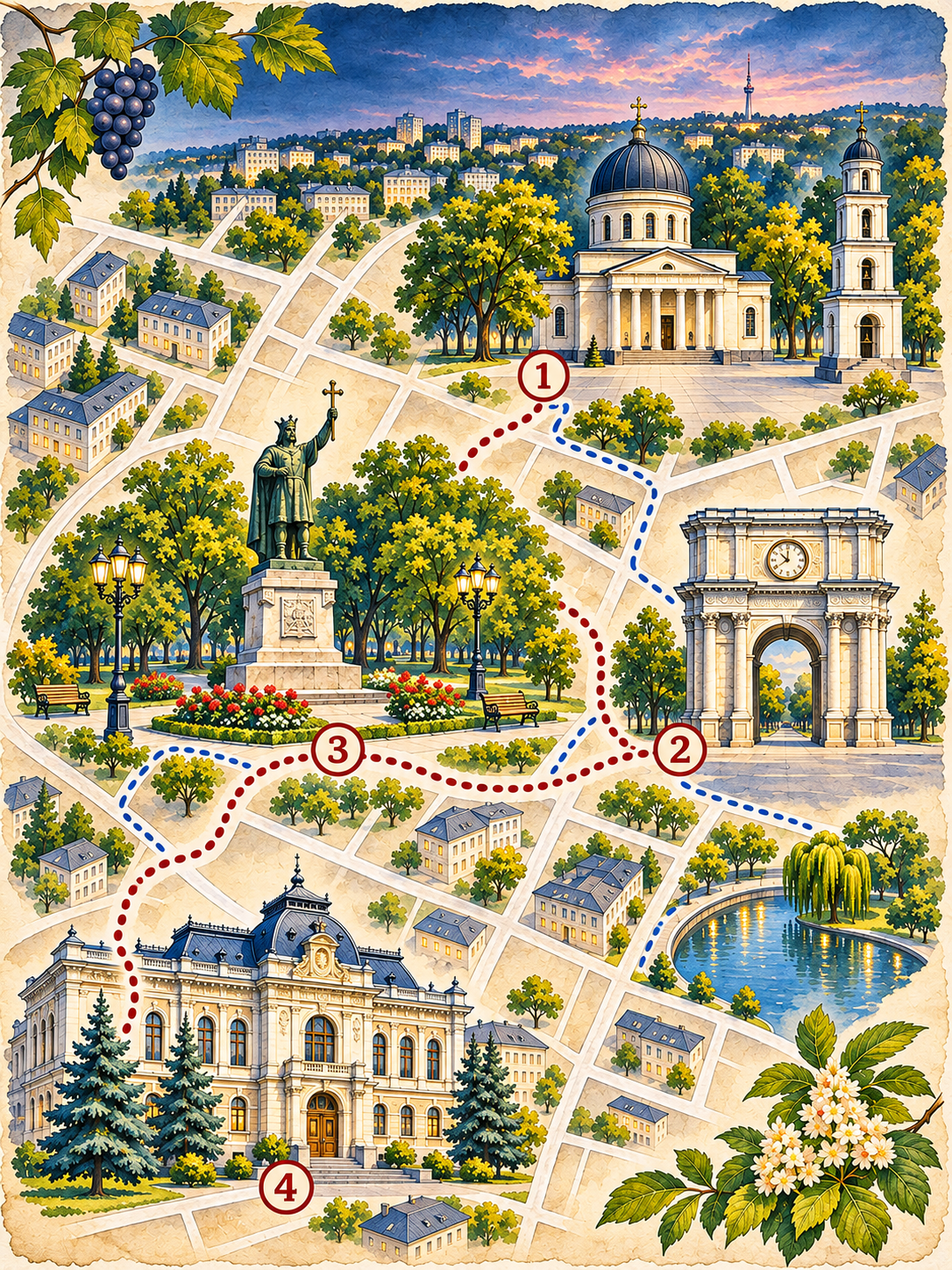
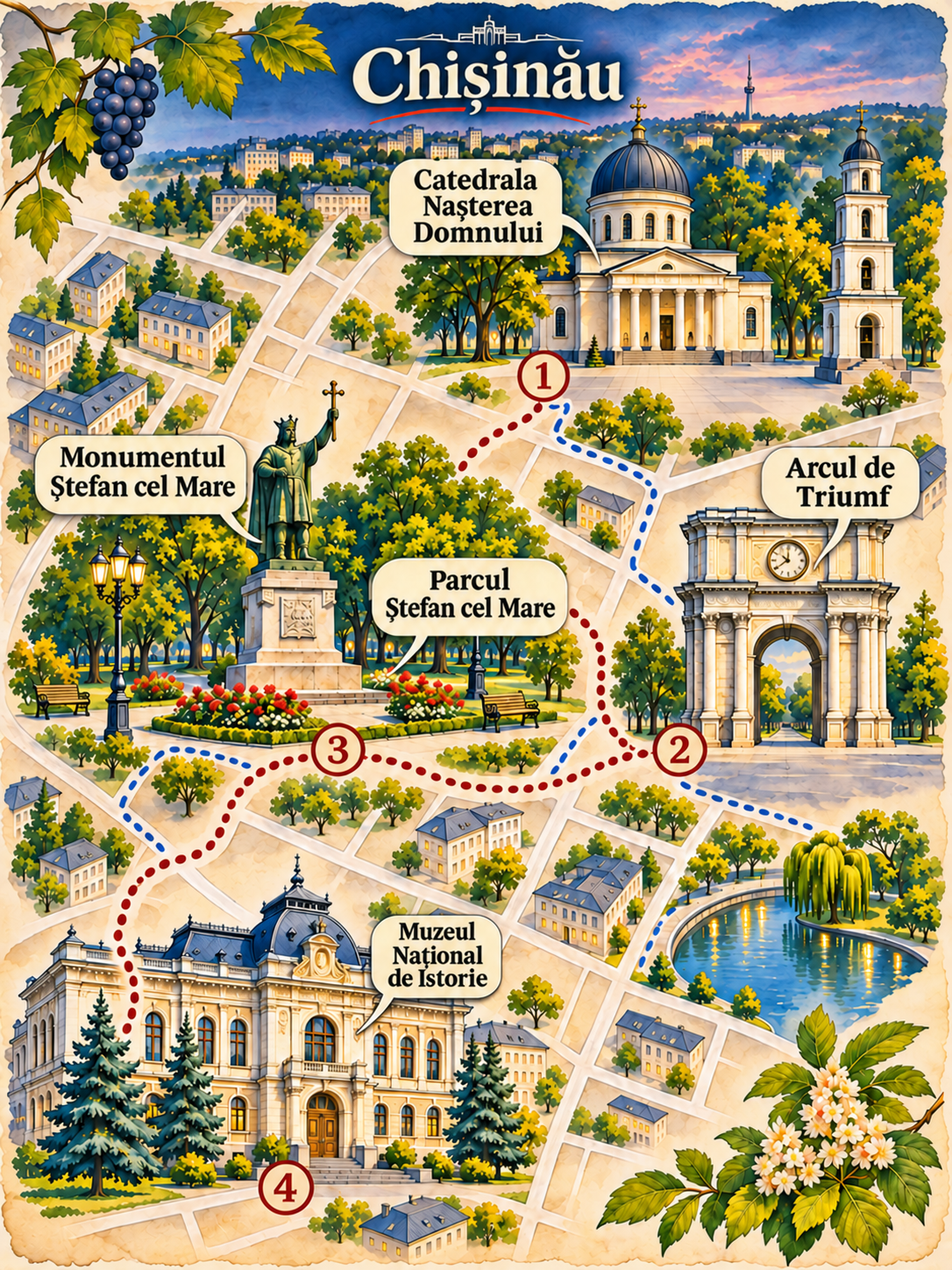
Label Chisinau guide map

diff --git a/ILUSTRATII.md b/ILUSTRATII.md
@@ -29,9 +29,10 @@ Se adaugă numele obiectivelor direct pe hărțile existente, în stilul aprobat
 - Dublin
 - Cracovia
 - Stockholm
+- Chișinău
 
 Harta originală pentru Praga avea deja etichete. Celelalte orașe din `assets/guides-prague-style/` necesită în continuare verificare și prelucrare. Actualizează această listă în același commit cu fiecare lot nou.
 
-Ilustrațiile fără etichete sunt păstrate în istoricul Git: pentru Roma și Barcelona folosește fișierul de la commitul `14f016a`, iar pentru Paris, Londra, Lisabona, Berlin și Bruxelles de la `508e691`. Pentru Budapesta, Atena, Veneția, Amsterdam, Viena, Milano, Madrid, Bologna, Lyon, Porto, Varșovia, Copenhaga, Edinburgh, Bruges, Köln, Dublin, Cracovia și Stockholm se pot folosi originalele de la `48efdd5`. Copii locale sunt în `/workspace/guide-batch/original-illustrations` când acel director este disponibil. Păstrează imaginile originale pentru quiz.
+Ilustrațiile fără etichete sunt păstrate în istoricul Git: pentru Roma și Barcelona folosește fișierul de la commitul `14f016a`, iar pentru Paris, Londra, Lisabona, Berlin și Bruxelles de la `508e691`. Pentru Budapesta, Atena, Veneția, Amsterdam, Viena, Milano, Madrid, Bologna, Lyon, Porto, Varșovia, Copenhaga, Edinburgh, Bruges, Köln, Dublin, Cracovia, Stockholm și Chișinău se pot folosi originalele de la `48efdd5`. Copii locale sunt în `/workspace/guide-batch/original-illustrations` când acel director este disponibil. Păstrează imaginile originale pentru quiz.
 
 Nu modifica funcționalitatea de căutare a zborurilor în cadrul acestei activități.
